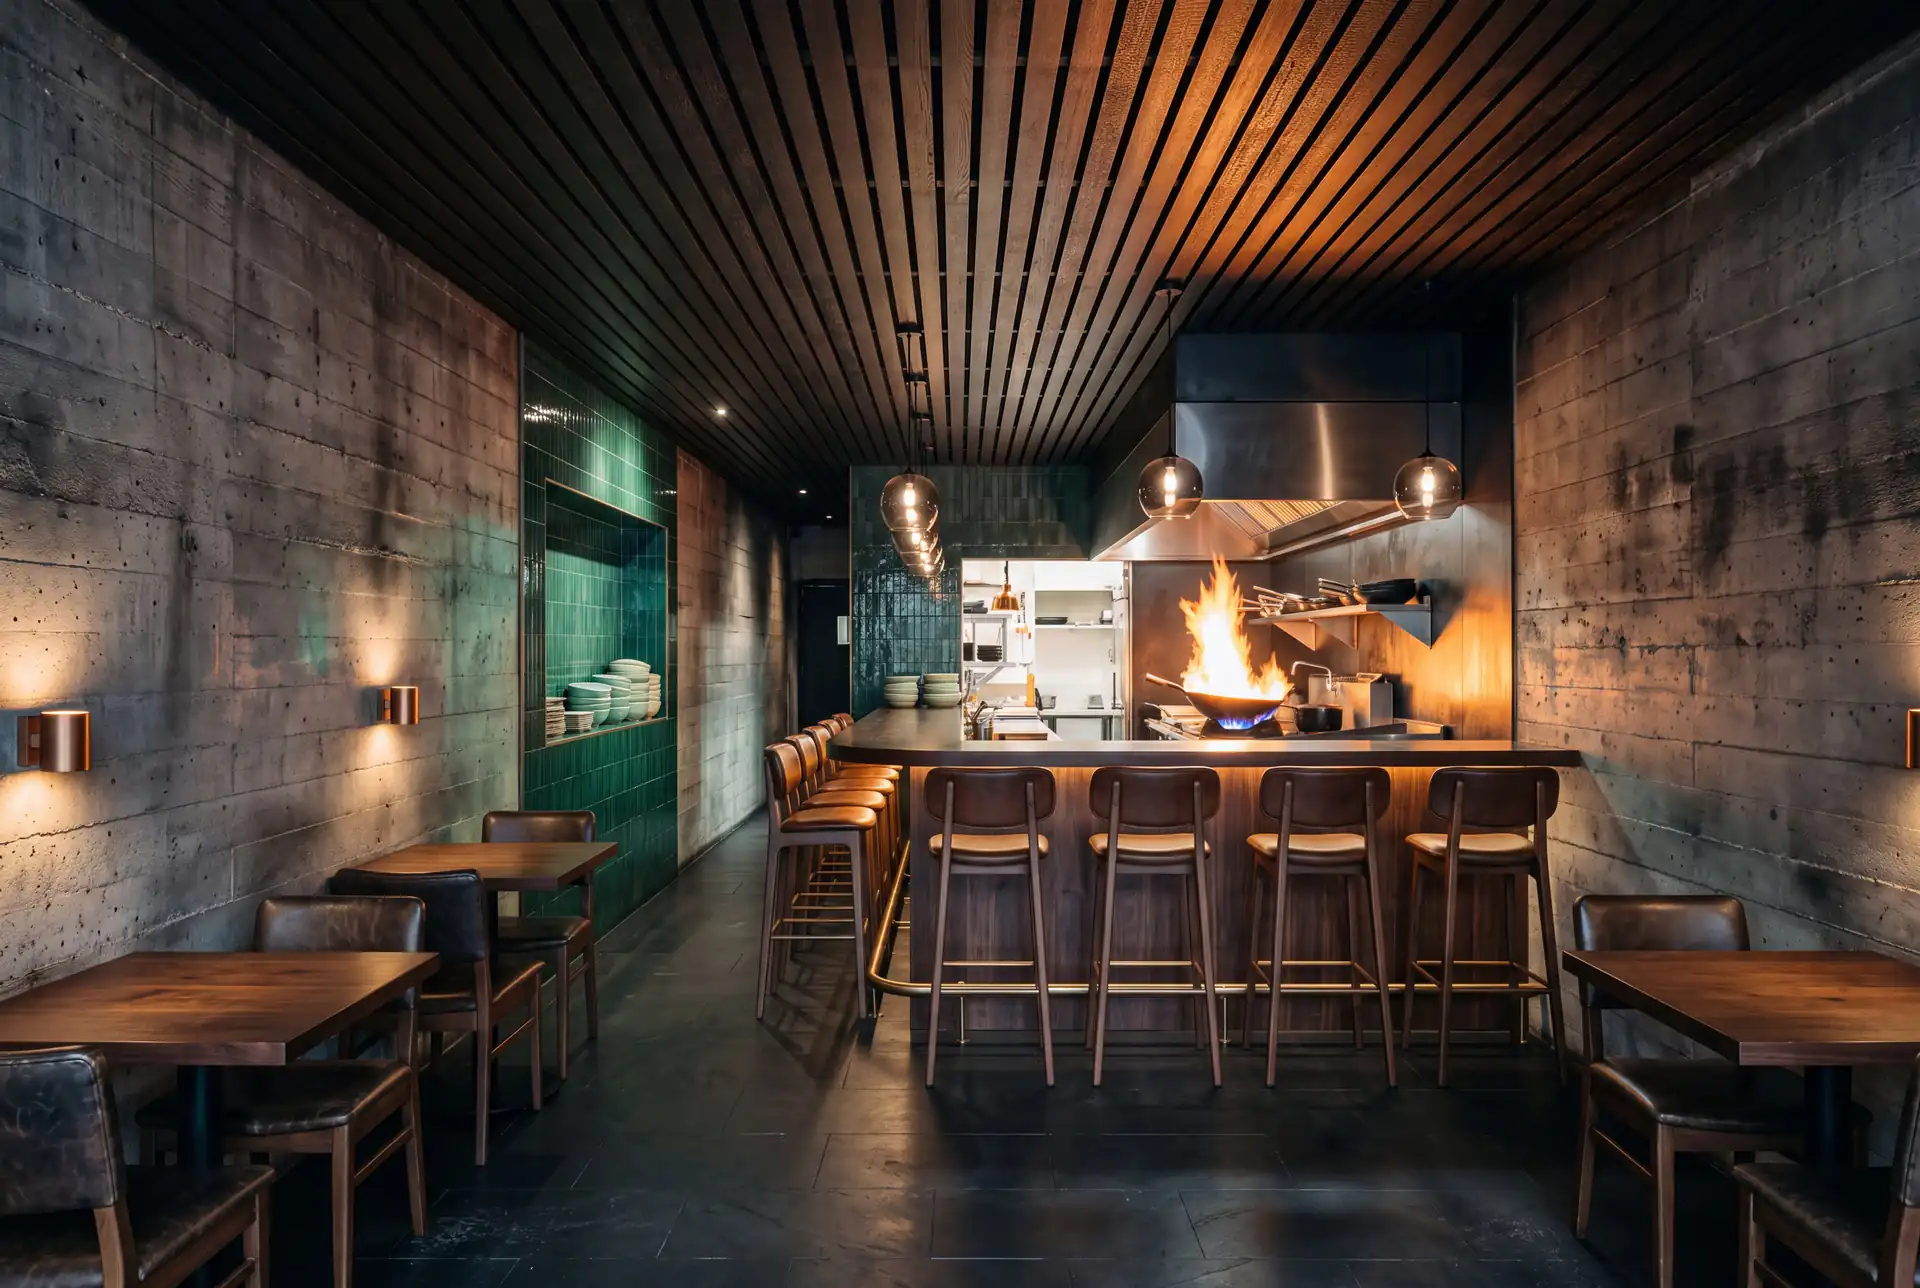
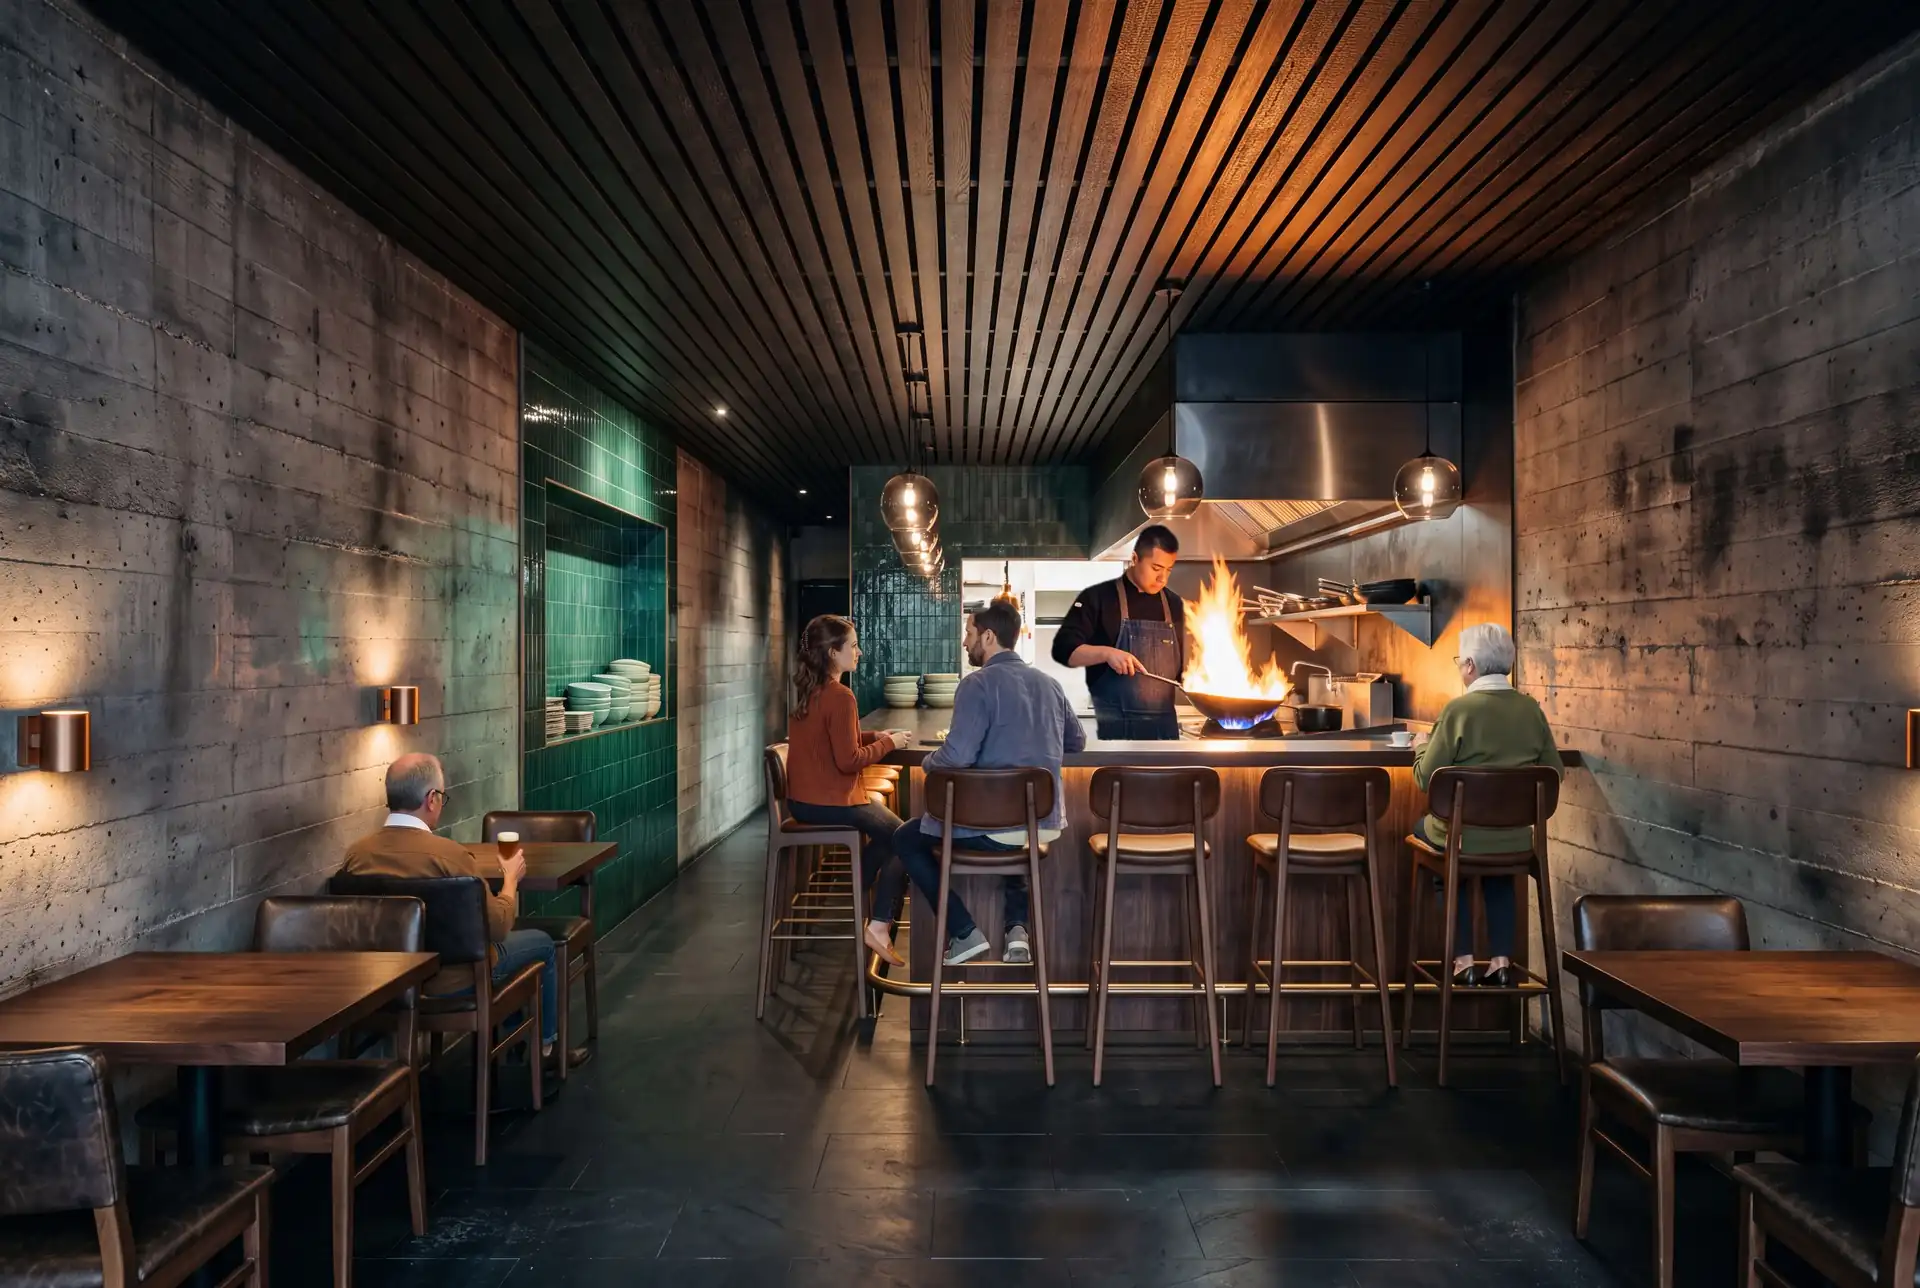
Visit Us: add five AI-generated people to the opening photograph (Shot A)
The approved Shot A master is unchanged outside the people masks (0 pixels differ, wok-flame box
identical). Cook and couple from Higgsfield; older woman and side-table diner from free Hugging
Face Spaces (Kontext + SAM 3). Four sizes re-encoded inside the existing byte limits (1280 67,560;
phone 51,066; 1920 140,928; 2560 198,142). New phone crop (x 1580 to 4294) so no sliver of the
side-table diner shows at the edge. Alt text, caption, PROVENANCE, rights inventory and asset
manifest updated. Not frozen, merged or deployed.

Claude-Session: https://claude.ai/code/session_01SfKgfixVnAxThFuW2TsJY3

Changed region(s): [[0.4062, 0.4037, 0.625, 0.7453], [0.7188, 0.4658, 0.8125, 0.7764], [0.1562, 0.5901, 0.3125, 0.8075]]

diff --git a/jade-and-ember/visit-us.html b/jade-and-ember/visit-us.html
@@ -32,7 +32,7 @@
 
 <main id="main">
   <section class="visit-room" aria-labelledby="visit-title">
-    <figure class="room-photo"><picture><source media="(max-width: 759px)" srcset="media/visit-room-a-m.webp" width="720" height="900"><source srcset="media/visit-room-a.webp 1280w, media/visit-room-a-1920.webp 1920w, media/visit-room-a-2560.webp 2560w" sizes="(min-width: 1600px) 1600px, 100vw"><img src="media/visit-room-a.webp" alt="The dining room from the door: charcoal concrete walls under a dark wood-slat ceiling, a jade-tile alcove of celadon bowls on the left, tables along both walls, and a walnut counter with stools before an open kitchen and a flaming wok." width="1280" height="859" fetchpriority="high" decoding="async"></picture><figcaption>The room, from the door to the fire. Concept image, AI-generated.</figcaption></figure>
+    <figure class="room-photo"><picture><source media="(max-width: 759px)" srcset="media/visit-room-a-m.webp" width="720" height="900"><source srcset="media/visit-room-a.webp 1280w, media/visit-room-a-1920.webp 1920w, media/visit-room-a-2560.webp 2560w" sizes="(min-width: 1600px) 1600px, 100vw"><img src="media/visit-room-a.webp" alt="The dining room from the door: concrete walls, a wood-slat ceiling and a jade-tile alcove of bowls. A man in a brown overshirt has a beer at a side table; a couple talk at the walnut counter, an older woman is at its end, a cook tosses a flaming wok." width="1280" height="859" fetchpriority="high" decoding="async"></picture><figcaption>The room, from the door to the fire. Concept image; the room and the people are AI-generated.</figcaption></figure>
     <div class="room-fx" aria-hidden="true"><div class="candle"></div></div>
     <div class="wrap room-grid">
       <div class="visit-head">

diff --git a/jade-and-ember/media/PROVENANCE.md b/jade-and-ember/media/PROVENANCE.md
@@ -11,9 +11,9 @@ Everything here is AI-generated concept media for a fictional restaurant. None o
 | `hero-wok-v2-m.webp` | Phone poster, 810x1440 | A 9:16 crop of the same still at the focus the phone layout uses, WebP q60. No 9:16 video was generated. |
 | `dish-beef.webp` | Plated dish, 2400x1610 | Plated still, resized from 5056x3392, WebP q74. |
 | `dish-beef-1200.webp` | The same dish at 1200x805, for the Menu | `dish-beef.webp` resized (Lanczos), WebP q74. |
-| `visit-room-a.webp` | Visit page opening photograph, 1280x859 | Higgsfield (owner's account) Nano Banana 2 at 4K, Shot A Candidate 2 (owner-approved master, 5056x3392), job `f2236920-1890-4a96-a781-3376e93b3612`, 3 credits, 2026-10-17. Resized (Lanczos), WebP q46. |
-| `visit-room-a-m.webp` | The phone crop of the same photograph, 720x900 | A 4:5 crop of Shot A (x 1400 to 4114, full height), resized, WebP q56. |
-| `visit-room-a-1920.webp`, `visit-room-a-2560.webp` | Larger sizes of the Visit opening photograph (1920x1288 and 2560x1717), chosen with `srcset` by wide and 2x screens | The same Shot A master (5056x3392, job `f2236920-1890-4a96-a781-3376e93b3612`), resized directly from the master (Lanczos), WebP q54 and q50. No new generation. |
+| `visit-room-a.webp` | Visit page opening photograph, 1280x859, with five people | Higgsfield (owner's account) Nano Banana 2 at 4K, Shot A Candidate 2 (owner-approved master, 5056x3392), job `f2236920-1890-4a96-a781-3376e93b3612`, 3 credits, 2026-10-17, with five AI-generated people composited on 2026-10-18 and 2026-10-19 (see below). Resized (Lanczos), WebP q46. |
+| `visit-room-a-m.webp` | The phone crop of the same photograph, 720x900 | A 4:5 crop of the Shot A composite (x 1580 to 4294, full height), resized, WebP q55. |
+| `visit-room-a-1920.webp`, `visit-room-a-2560.webp` | Larger sizes of the Visit opening photograph (1920x1288 and 2560x1717), chosen with `srcset` by wide and 2x screens | The same Shot A composite (5056x3392), resized directly (Lanczos), WebP q55 and q49. |
 | `visit-counter-b.webp` | The wok counter from a stool, 780x968 | Nano Banana 2 at 4K, Shot B image 1 (owner-approved), job `ecae65c4-09a8-448b-9abd-e8e1d2ecca76`, 3 credits, Shot A as the image reference. Resized from 3712x4608, WebP q66. |
 | `visit-materials-c.webp` | The jade wall and niche, 1200x805 | Nano Banana 2 at 4K, Shot C image 2 (owner-approved; image 4 of the five in the review gallery), job `2b7e3a9d-8eaf-4a34-92d9-a16b102313b4`, 3 credits, Shot A as the image reference. Resized from 5056x3392, WebP q66. |
 | `story-jade-bowls-860.webp` | The celadon bowls at 860x543, for the Home teaser | `story-jade-bowls.webp` resized (Lanczos), WebP q76. |
@@ -35,3 +35,16 @@ Everything here is AI-generated concept media for a fictional restaurant. None o
 | `dish-dandan.webp` 1200×800 | 9902 (of 8801, 8802, 9901, 9902) | 1472×1104 | 4 | crop, grade, WebP q76 |
 
 Prompts, grade and known defects for these three are unchanged from v0.9 (dishes: studio-style prompts naming the dish and the vessel, plain dark slate, soft warm light from the left, nothing else on the table; one split-tone grade for all).
+
+## Shot A people (2026-10-18 and 2026-10-19)
+
+The Visit opening photograph shows five AI-generated people. Each was made separately, cut out and composited onto the approved Shot A master (job `f2236920`); the room itself was never regenerated. Verified numerically on the final composite: 0 pixels differ from the master outside the people masks, and the wok-flame box is identical. The room is therefore the approved master; the people are new.
+
+| Person | Where | Made with | Credits |
+| --- | --- | --- | --- |
+| Cook (young man, black jacket, denim apron, tossing the wok) | Open kitchen | Higgsfield Nano Banana 2, Shot A candidate 1, job `6fbf40f4`, cut out and composited | 3 |
+| Couple (woman in rust cardigan, man in indigo jacket) | Counter stools at the left | Higgsfield Nano Banana 2, guided pass on a crop of the master with flat placeholder figures at true scale, job `b83df313` | 3 |
+| Older woman (silver hair, glasses, olive cardigan, cream scarf, teacup) | Stool at the counter's right end | Hugging Face Space `mcp-tools/FLUX.1-Kontext-Dev` (seed 23) on a crop of the master with a placeholder figure, cut out with Space `prithivMLmods/SAM3-Demo` | 0 (free tier, connected account) |
+| Man in his early 50s (salt-and-pepper hair, reading glasses, brown corduroy overshirt, beer) | Far-left side table | The same two Spaces, same method, seed 23 | 0 |
+
+Passes made and not used (3 credits each): `678cbaed`, `91fcf39f`, `16a35d83`, `f53b916f`. Credits spent on Shot A people: 18 (39 of the 45 ceiling spent in all). Not stored: the intermediate crops, placeholder drawings, raw candidates and masks (kept in the Higgsfield sandbox and the working folder, not in the repository).
